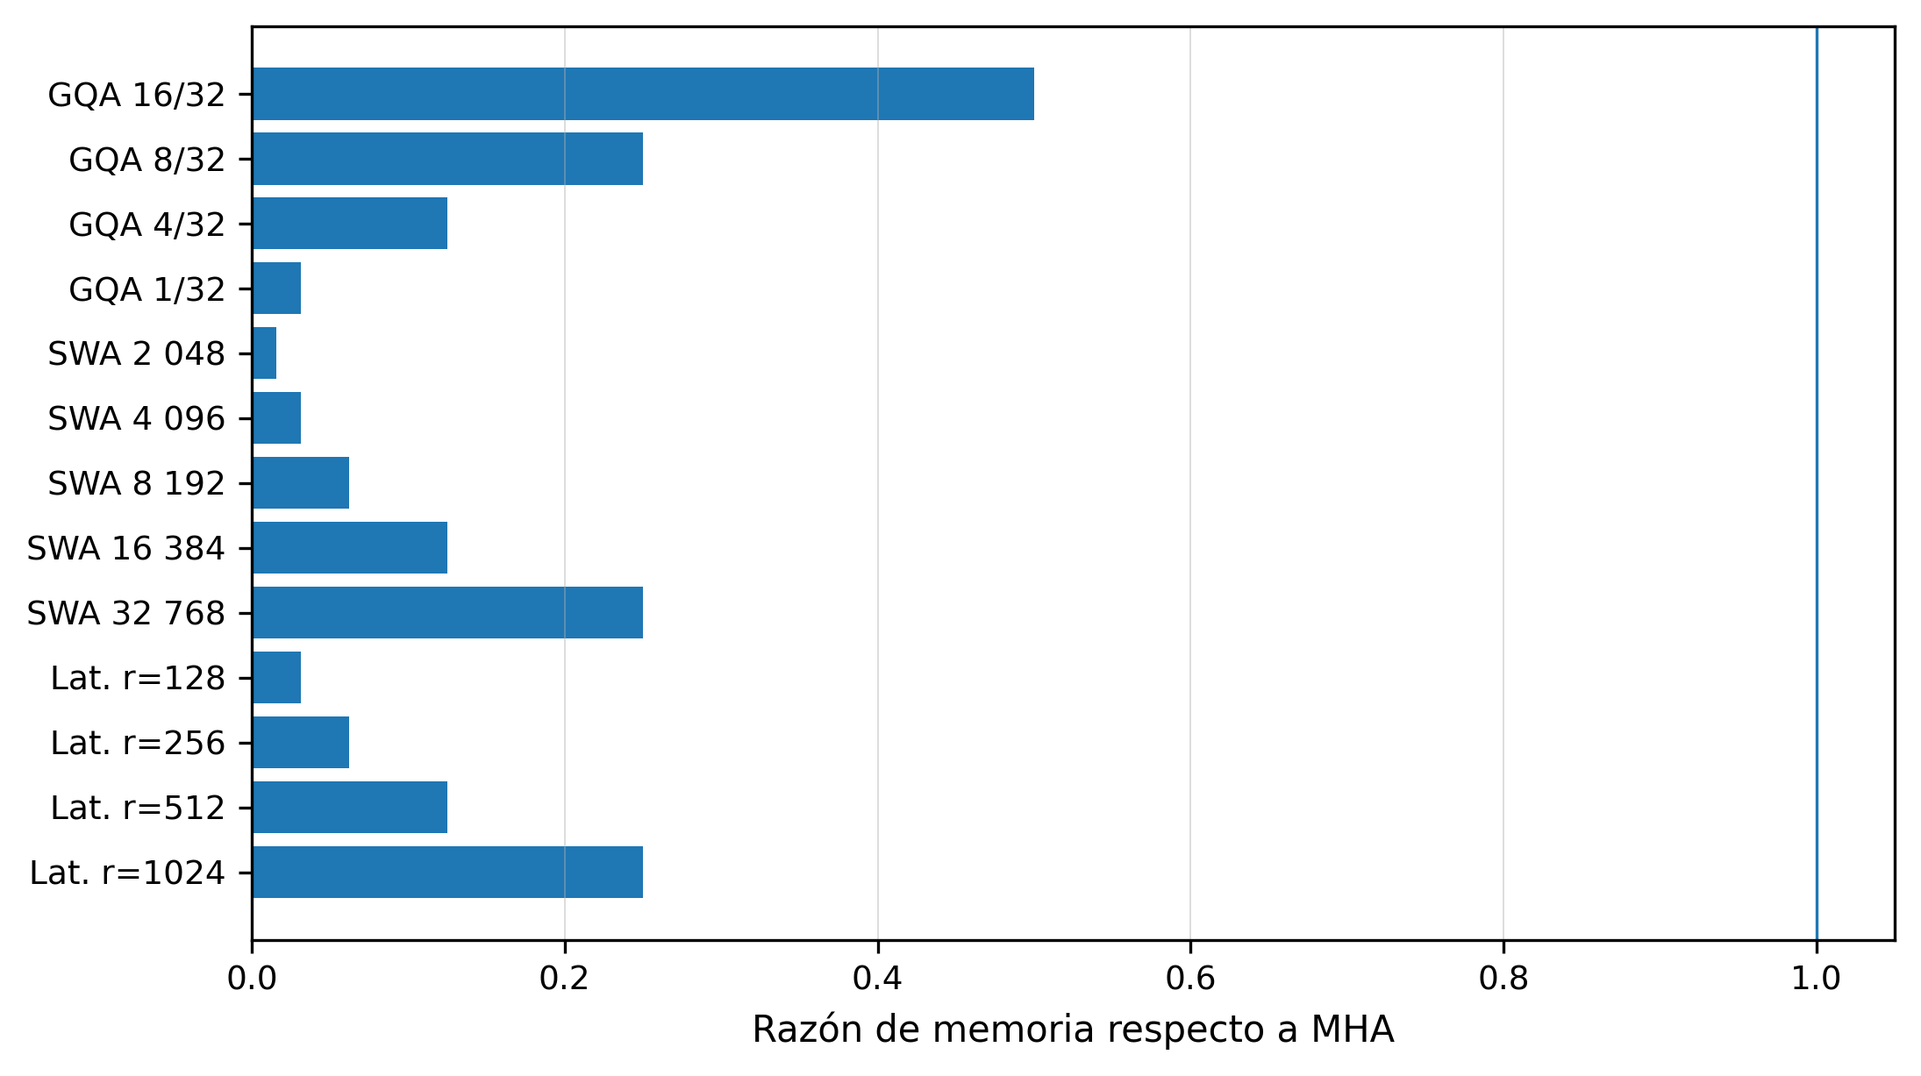
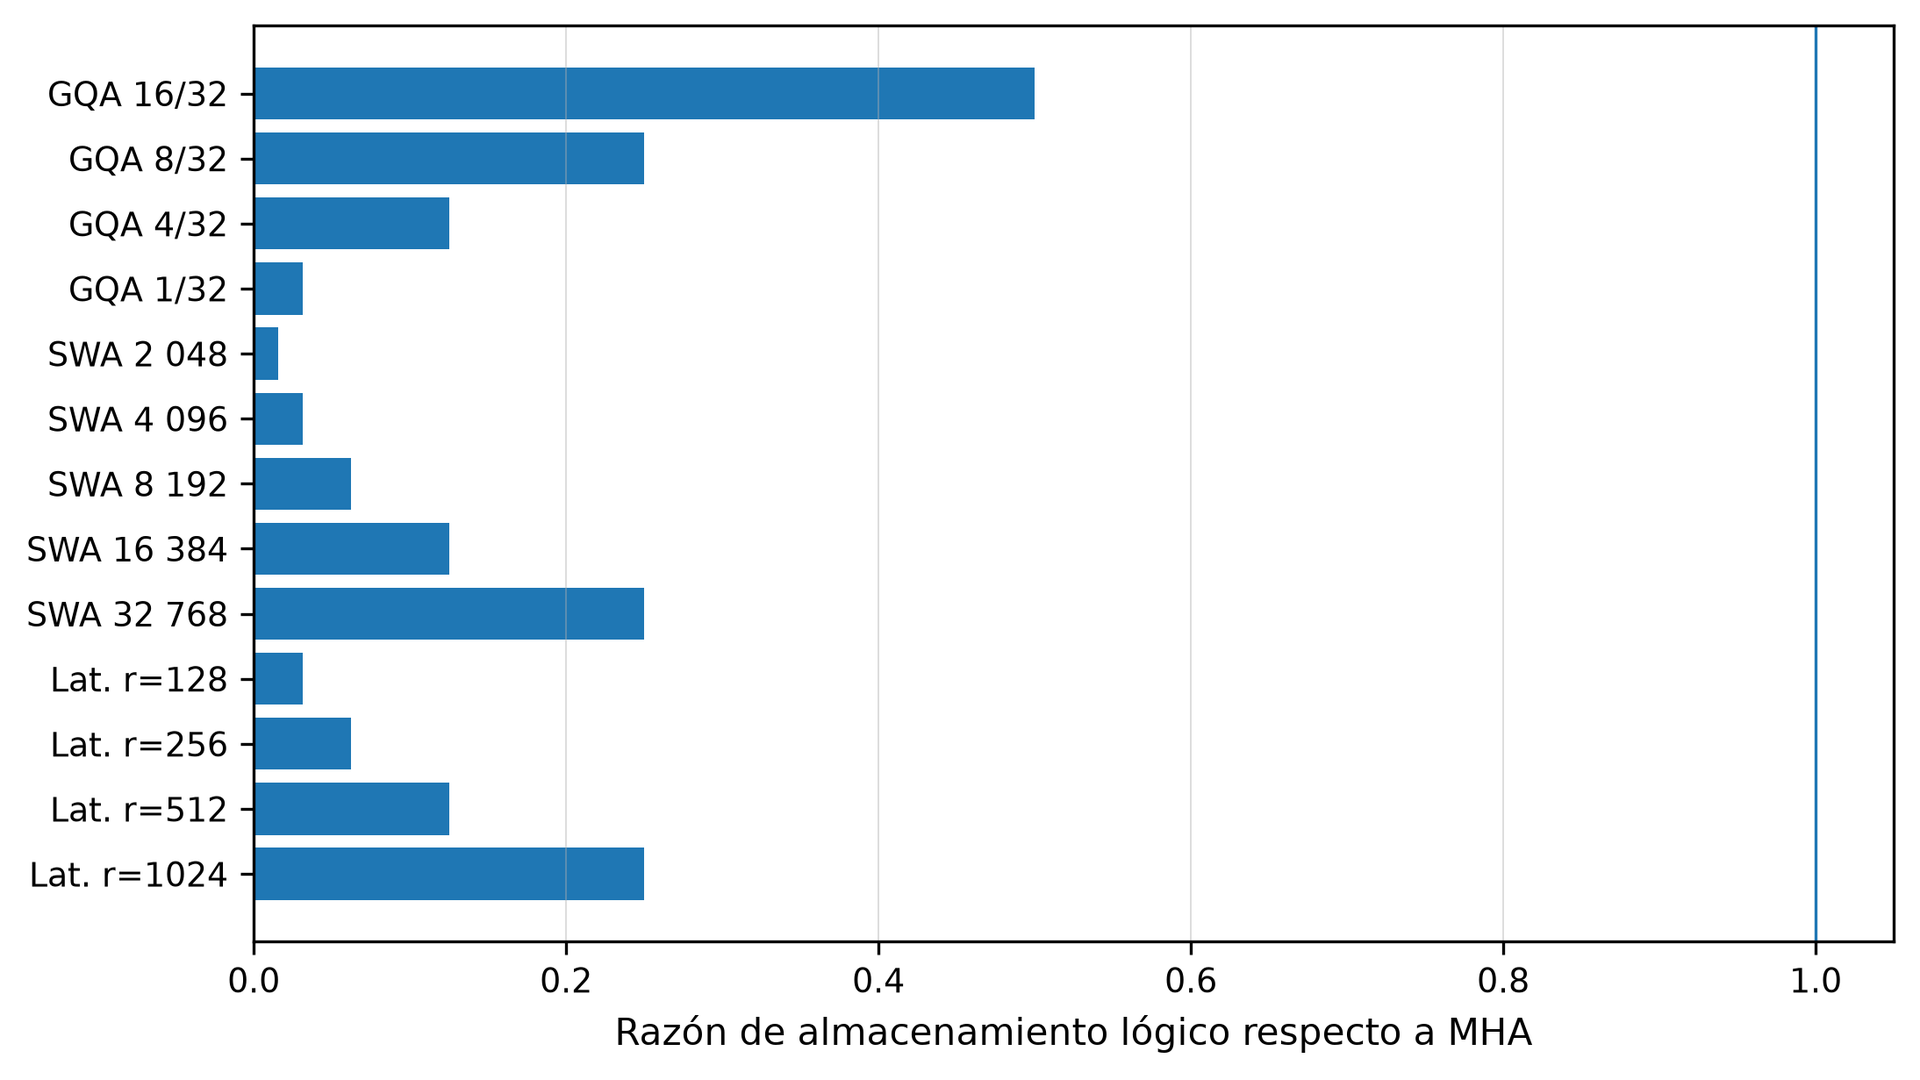
Corrige figuras notación y formato del manuscrito

diff --git a/paper/lara_avila.tex b/paper/lara_avila.tex
@@ -49,9 +49,9 @@ Las técnicas recientes de reducción de KV cache actúan sobre diferentes ejes.
 
 La compresión también puede actuar sobre el eje temporal o la precisión. H2O retiene tokens de alta importancia (heavy hitters) y tokens recientes, StreamingLLM mantiene attention sinks junto con una ventana reciente y DuoAttention mantiene la cache completa solo en retrieval heads \cite{zhang2023h2o,xiao2024streamingllm,xiao2025duoattention}. En cuantización, KIVI muestra que claves y valores presentan propiedades diferentes, mientras SKVQ combina almacenamiento con pocos bits con una ventana de mayor precisión \cite{liu2024kivi,duanmu2024skvq}. Por ello, reducir $T_{\mathrm{eff}}$ o los bytes por valor es útil para contabilidad lógica, pero no describe por sí solo pérdida de calidad, metadatos ni sobrecarga de kernels.
 
-En sistemas de inferencia, el almacenamiento lógico tampoco determina la memoria físicamente utilizable. PagedAttention reduce desperdicio mediante paginación y compartición de bloques, vAttention separa espacio virtual contiguo de respaldo físico y KV-Compress muestra que una tasa teórica de compresión puede no materializarse de forma proporcional cuando la disposición de memoria introduce fragmentación \cite{kwon2023efficient,prabhu2025vattention,rehg2024kvcompress}. Evaluaciones de sistemas de inferencia como Rethinking KV Compression encuentran además que reducir memoria no garantiza una mejora equivalente de throughput o latencia \cite{gao2025rethinking}. Estudios recientes de calidad muestran que determinadas instrucciones pueden degradarse de forma desigual bajo compresión \cite{chen2026pitfalls}.
+En sistemas de inferencia, el almacenamiento lógico tampoco determina la memoria físicamente utilizable. FlashAttention aborda la eficiencia de E/S del cálculo de atención mediante tiling y reducción de transferencias entre HBM y SRAM \cite{dao2022flashattention}. Este nivel de optimización de ejecución es distinto del almacenamiento lógico de los estados KV modelado en este trabajo. PagedAttention reduce desperdicio mediante paginación y compartición de bloques, vAttention separa espacio virtual contiguo de respaldo físico y KV-Compress muestra que una tasa teórica de compresión puede no materializarse de forma proporcional cuando la disposición de memoria introduce fragmentación \cite{kwon2023efficient,prabhu2025vattention,rehg2024kvcompress}. Evaluaciones de sistemas de inferencia como Rethinking KV Compression encuentran además que reducir memoria no garantiza una mejora equivalente de throughput o latencia \cite{gao2025rethinking}. Estudios recientes de calidad muestran que determinadas instrucciones pueden degradarse de forma desigual bajo compresión \cite{chen2026pitfalls}.
 
-Finalmente, LIFE modela analíticamente el rendimiento de inferencia a partir de operadores y especificaciones de hardware, mientras KV Pareto estudia empíricamente fronteras entre memoria total y exactitud para combinaciones de optimizaciones \cite{patwari2025life,gokhale2026kvpareto}. Otros trabajos distribuyen budgets de retención entre capas, y una taxonomía reciente organiza la gestión de KV cache en niveles de token, modelo y sistema \cite{li2024xkv,li2024kvsurvey}. El presente trabajo persigue un objetivo más acotado: proporcionar una capa de dimensionamiento lógico de capacidad para configuraciones seleccionadas, con una representación común, cálculo directo e inverso y trazabilidad reproducible entre ecuaciones, implementación, datos regenerables y pruebas. Este nivel de análisis complementa, en lugar de sustituir, modelos de rendimiento, técnicas de compresión y sistemas de gestión física de memoria.
+Finalmente, LIFE modela analíticamente el rendimiento de inferencia a partir de operadores y especificaciones de hardware, mientras KV Pareto estudia empíricamente fronteras entre memoria total y exactitud para combinaciones de optimizaciones \cite{patwari2025life,gokhale2026kvpareto}. Otros trabajos distribuyen presupuestos de retención entre capas, y una taxonomía reciente organiza la gestión de KV cache en niveles de token, modelo y sistema \cite{li2024xkv,li2024kvsurvey}. El presente trabajo persigue un objetivo más acotado: proporcionar una capa de dimensionamiento lógico de capacidad para configuraciones seleccionadas, con una representación común, cálculo directo e inverso y trazabilidad reproducible entre ecuaciones, implementación, datos regenerables y pruebas. Este nivel de análisis complementa, en lugar de sustituir, modelos de rendimiento, técnicas de compresión y sistemas de gestión física de memoria.
 
 \subsection{Objetivo y contribuciones}
 La literatura reciente integra mecanismos de reducción y gestión de KV cache desde perspectivas arquitectónicas, algorítmicas y de sistemas. Sin embargo, para una etapa preliminar de planificación de capacidad sigue siendo útil una representación compacta que permita responder de forma reproducible cuánto almacenamiento lógico requiere una configuración, qué factores explican una reducción, qué mecanismos pueden componerse bajo supuestos explícitos y qué contexto satisface un presupuesto reservado a KV cache. El objetivo de este trabajo es proporcionar esa capa de dimensionamiento y vincularla con un artefacto ejecutable y auditable, sin interpretar las estimaciones lógicas como mediciones de GPU.
@@ -80,7 +80,7 @@ R_{\mathrm{GQA}}=\frac{h_{kv}}{h_q}.
 \end{equation}
 La Ecuación~\eqref{eq:gqa} expresa la reducción proporcional producida al compartir claves y valores entre grupos de query heads.
 
-En SWA, el contexto activo se limita a una ventana $W$:
+En SWA, el contexto activo se limita a una ventana $W$ \cite{jiang2023mistral}:
 \begin{equation}\label{eq:swa}
 M_{\mathrm{SWA}}=\frac{L\,\min(T,W)\,2\,d\,s\,B}{10^{9}},\qquad
 R_{\mathrm{SWA}}=\frac{\min(T,W)}{T}.
@@ -132,18 +132,19 @@ El servicio principal calcula MHA, GQA y el proxy de cache latente. Por compatib
 La aplicación puede ejecutarse sin GPU, sin API keys y sin servicios externos obligatorios. Un Docker multi-stage compila el frontend y sirve API, interfaz y documentación OpenAPI en el puerto 7860. Una demostración interactiva está disponible en \url{https://kapumota-attentio-ai-lab.hf.space/}. El Space constituye un entorno demostrativo en evolución y puede recibir actualizaciones posteriores; por ello, permite inspeccionar la interfaz y el contrato, pero no sustituye la referencia inmutable del artefacto científico que se fijará al cerrar la revisión. El paquete del artículo conserva CSV, figuras y script independientes.
 
 \subsection{Trazabilidad del artefacto}
-La Tabla~\ref{tab:traceability} vincula los claims computacionales principales con su implementación canónica, la evidencia reproducible y las pruebas correspondientes. El tag \texttt{v1.2.0} se conserva como versión base, mientras que la referencia inmutable del artefacto científico revisado se fijará al cerrar la revisión final.
+La Tabla~\ref{tab:traceability} vincula las afirmaciones computacionales principales con su implementación canónica, la evidencia reproducible y las pruebas correspondientes. El tag \texttt{v1.2.0} se conserva como versión base, mientras que la referencia inmutable del artefacto científico revisado se fijará al cerrar la revisión final.
 
-\begin{table*}[!ht]
+\begin{table*}[!t]
 \centering\scriptsize
-\caption{Trazabilidad entre claims, implementación canónica y evidencia reproducible. Fuente: elaboración propia.}\label{tab:traceability}
+\setlength{\tabcolsep}{3pt}
+\caption{Trazabilidad entre afirmaciones, implementación canónica y evidencia reproducible. Fuente: elaboración propia.}\label{tab:traceability}
 \begin{tabular}{
 >{\raggedright\arraybackslash}p{0.18\textwidth}
 >{\raggedright\arraybackslash}p{0.28\textwidth}
 >{\raggedright\arraybackslash}p{0.27\textwidth}
 >{\raggedright\arraybackslash}p{0.18\textwidth}}
 \toprule
-Claim & Implementación canónica & Evidencia reproducible & Verificación \\
+Afirmación & Implementación canónica & Evidencia reproducible & Verificación \\
 \midrule
 MHA, GQA y proxy latente &
 \path{apps/api/app/services/llm_metrics.py} &
@@ -160,7 +161,7 @@ Composición GQA+SWA &
 razón algebraica combinada &
 \path{apps/api/tests/test_composition_invariant.py} \\
 
-Inverse sizing &
+Dimensionamiento inverso &
 \path{apps/api/app/services/budget_inversion.py} &
 contexto máximo bajo presupuesto lógico &
 \path{apps/api/tests/test_budget_inversion.py} \\
@@ -189,7 +190,7 @@ Almacenamiento de tensores en CPU &
 \end{tabular}
 \end{table*}
 
-Para el barrido de 71 configuraciones, la cadena canónica parte de los servicios del backend y de \path{scripts/generate-paper-kv-results.py}, que produce los tres CSV deterministas y su manifest. Los artefactos y scripts mantenidos dentro de \path{paper/} se conservan para la preparación editorial de tablas y figuras, pero no se consideran la implementación canónica de las ecuaciones ni la fuente primaria de los 71 resultados reproducibles.
+Para el barrido de 71 configuraciones, la cadena canónica parte de los servicios del backend y de \path{scripts/generate-paper-kv-results.py}, que produce los tres CSV deterministas y el archivo \texttt{manifest.json}. Los artefactos y scripts mantenidos dentro de \path{paper/} se conservan para la preparación editorial de tablas y figuras, pero no se consideran la implementación canónica de las ecuaciones ni la fuente primaria de los 71 resultados reproducibles.
 
 \subsection{Protocolo reproducible}
 El protocolo consta de cinco pasos: (1) fijar supuestos y escenarios; (2) ejecutar el estimador determinista; (3) exportar CSV y figuras; (4) comprobar invariantes; y (5) ejecutar la comprobación empírica del almacenamiento de tensores en CPU. El control de calidad exige pruebas del backend, compilación y verificación de TypeScript, revisión documental y validación opcional del despliegue público. Esto no valida fidelidad física, pero reduce errores de transcripción, cambios silenciosos de fórmula y discrepancias entre documentación y código.
@@ -222,23 +223,23 @@ La Figura~\ref{fig:context} muestra el barrido de $4\,096$ a $1\,048\,576$ token
 
 \begin{figure*}[!ht]
 \centering
-\includegraphics[width=0.88\linewidth]{figures/context_sweep.png}
-\caption{Memoria estimada de KV cache al variar la longitud de contexto. Supuestos: 32 capas, dimensión $4\,096$, FP16, lote 1, GQA con 8 de 32 KV heads, SWA con ventana $4\,096$ y cache latente de rango 512. Fuente: elaboración propia.}\label{fig:context}
+\includegraphics[width=0.84\linewidth]{figures/context_sweep.png}
+\caption{Almacenamiento lógico estimado de KV cache al variar la longitud de contexto. Supuestos: 32 capas, dimensión $4\,096$, FP16, lote 1, GQA con 8 de 32 KV heads, SWA con ventana $4\,096$ y cache latente de rango 512. Fuente: elaboración propia.}\label{fig:context}
 \end{figure*}
 
 La Tabla~\ref{tab:scenarios} separa las cuatro familias para evitar interpretar SWA y cache latente como una misma salida. En $1\,048\,576$ tokens, MHA requiere 549.756 GB. GQA-8 reduce 75\%, la cache latente de rango 512 reduce 87.5\% y SWA-$8\,192$ reduce 99.219\% respecto al MHA de referencia. Esta última reducción se obtiene al renunciar a atención directa sobre tokens fuera de la ventana local.
 
 \begin{table*}[!ht]
 \centering\small
-\caption{Escenarios representativos de memoria lógica estimada. Valores en GB decimales. Fuente: elaboración propia.}\label{tab:scenarios}
+\caption{Escenarios representativos de almacenamiento lógico estimado. Valores en GB decimales. Fuente: elaboración propia.}\label{tab:scenarios}
 \begin{tabular}{lrrrrr}
 \toprule
 Escenario & Contexto & MHA & GQA & SWA & Latente \\
 \midrule
-MHA $32\,768$, 32 KV heads & 32 768 & 17.180 & 17.180 & 2.147 & 2.147 \\
-GQA $65\,536$, 8 de 32 KV heads & 65 536 & 34.360 & 8.590 & 2.147 & 4.295 \\
-SWA $131\,072$, ventana $4\,096$ & 131 072 & 68.719 & 17.180 & 2.147 & 8.590 \\
-Contexto $1\,048\,576$, ventana $8\,192$, rango 512 & 1 048 576 & 549.756 & 137.439 & 4.295 & 68.719 \\
+MHA $32\,768$, 32 KV heads & $32\,768$ & 17.180 & 17.180 & 2.147 & 2.147 \\
+GQA $65\,536$, 8 de 32 KV heads & $65\,536$ & 34.360 & 8.590 & 2.147 & 4.295 \\
+SWA $131\,072$, ventana $4\,096$ & $131\,072$ & 68.719 & 17.180 & 2.147 & 8.590 \\
+Contexto $1\,048\,576$, ventana $8\,192$, rango 512 & $1\,048\,576$ & 549.756 & 137.439 & 4.295 & 68.719 \\
 \bottomrule
 \end{tabular}
 \end{table*}
@@ -248,13 +249,13 @@ La Figura~\ref{fig:ratios} confirma que GQA depende de $h_{kv}/h_q$. Con 16, 8, 
 
 \begin{figure*}[!ht]
 \centering
-\includegraphics[width=0.88\linewidth]{figures/ratios_128k.png}
-\caption{Razón de memoria respecto a MHA para configuraciones a $131\,072$ tokens. ``Lat.'' corresponde a cache latente. Fuente: elaboración propia.}\label{fig:ratios}
+\includegraphics[width=0.84\linewidth]{figures/ratios_128k.png}
+\caption{Razón de almacenamiento lógico respecto a MHA para configuraciones a $131\,072$ tokens. ``Lat.'' corresponde a cache latente. Fuente: elaboración propia.}\label{fig:ratios}
 \end{figure*}
 
 SWA-$4\,096$ también produce $R=0.03125$ a $131\,072$, igual que GQA con un KV head. La igualdad de memoria no implica equivalencia funcional: GQA conserva todo el contexto mediante compartición entre query heads, mientras SWA limita el historial activo. La cache latente produce razones 0.03125, 0.0625, 0.125 y 0.25 para rangos 128, 256, 512 y 1024.
 
-La composición de la Ecuación~\eqref{eq:compose} ofrece un escenario de planeamiento adicional. A $1\,048\,576$ tokens, GQA-8 con SWA-$8\,192$ reduce la cache lógica FP16 de 549.756 GB a 1.074 GB. Si además se representa cada valor con 1 byte, el valor ideal es 0.537 GB. Estas cifras no describen una implementación ni su calidad; muestran cómo factores compatibles dentro del modelo lógico, bajo los supuestos declarados, pueden detectar órdenes de magnitud antes del despliegue.
+La composición de la Ecuación~\eqref{eq:compose} ofrece un escenario de planificación adicional. A $1\,048\,576$ tokens, GQA-8 con SWA-$8\,192$ reduce la cache lógica FP16 de 549.756 GB a 1.074 GB. Si además se representa cada valor con 1 byte, el valor ideal es 0.537 GB. Estas cifras no describen una implementación ni su calidad; muestran cómo factores compatibles dentro del modelo lógico, bajo los supuestos declarados, pueden detectar órdenes de magnitud antes del despliegue.
 
 \subsection{Efecto de la precisión}
 La Figura~\ref{fig:precision} muestra escalamiento lineal con bytes por valor. Para MHA a $131\,072$ tokens, FP32 requiere 137.439 GB; FP16 y BF16, 68.719 GB; INT8, 34.360 GB; e INT4, 17.180 GB.
@@ -262,7 +263,7 @@ La Figura~\ref{fig:precision} muestra escalamiento lineal con bytes por valor. P
 \begin{figure*}[!ht]
 \centering
 \includegraphics[width=0.88\linewidth]{figures/precision_128k.png}
-\caption{Sensibilidad a la precisión para $131\,072$ tokens. INT8 e INT4 representan almacenamiento ideal y omiten metadatos, escalas, regiones residuales y precisión mixta de implementaciones reales. Fuente: elaboración propia.}\label{fig:precision}
+\caption{Sensibilidad del almacenamiento lógico a la precisión para $131\,072$ tokens. INT8 e INT4 representan almacenamiento ideal y omiten metadatos, escalas, regiones residuales y precisión mixta de implementaciones reales. Fuente: elaboración propia.}\label{fig:precision}
 \end{figure*}
 
 La cuantización puede multiplicar reducciones de GQA o SWA, pero su efecto práctico depende de granularidad, escalas, valores atípicos y kernels. KIVI muestra que claves y valores pueden requerir tratamientos distintos, por lo que reducir bytes no basta para caracterizar calidad ni rendimiento \cite{liu2024kivi}.
@@ -284,8 +285,8 @@ Presupuesto KV & MHA & GQA-8 & Latente $r=512$ \\
 \end{tabular}
 \end{table}
 
-\subsection{Validación por invariantes}
-La Tabla~\ref{tab:invariants} resume las pruebas. El error absoluto es cero dentro de la aritmética del script. Estas pruebas validan coherencia entre ecuaciones y código, no correspondencia con hardware.
+\subsection{Verificación por invariantes}
+La Tabla~\ref{tab:invariants} resume las pruebas. El error absoluto es cero dentro de la aritmética del script. Estas pruebas verifican la coherencia entre ecuaciones y código, no correspondencia con hardware.
 
 \begin{table}[!ht]
 \centering\small
@@ -295,9 +296,9 @@ La Tabla~\ref{tab:invariants} resume las pruebas. El error absoluto es cero dent
 Invariante & Esperado & Observado \\
 \midrule
 $M_{\mathrm{MHA}}(2T)/M_{\mathrm{MHA}}(T)$ & 2.000 & 2.000 \\
-GQA $8/32$ heads & 0.250 & 0.250 \\
+GQA $8/32$ KV heads & 0.250 & 0.250 \\
 SWA $4\,096/131\,072$ & 0.03125 & 0.03125 \\
-Latente $512/4096$ & 0.125 & 0.125 \\
+Latente $512/4\,096$ & 0.125 & 0.125 \\
 INT8 / FP16 & 0.500 & 0.500 \\
 \bottomrule
 \end{tabular}
@@ -311,7 +312,7 @@ La Tabla~\ref{tab:pytorch-profile} muestra que los bytes de \texttt{untyped\_sto
 \caption{Comprobación empírica del almacenamiento de tensores con PyTorch 2.10.0 en CPU; tres ejecuciones por escenario. Valores en MB decimales. Fuente: elaboración propia.}\label{tab:pytorch-profile}
 \begin{tabular}{lrrrr}
 \toprule
-Escenario & Analítico & Almacenamiento & RSS mediana & Error RSS \\
+Escenario & Analítico & Almacenamiento & RSS mediana & Dif. RSS \\
 \midrule
 MHA & 134.218 & 134.218 & 134.222 & 0.003\% \\
 GQA-4/16 & 33.554 & 33.554 & 33.559 & 0.012\% \\

diff --git a/paper/generate_results.py b/paper/generate_results.py
@@ -19,6 +19,13 @@ HQ = 32
 B = 1
 BYTES = {"fp32": 4.0, "fp16": 2.0, "bf16": 2.0, "int8": 1.0, "int4": 0.5}
 
+DISPLAY_NAMES = {
+    "MHA": "MHA",
+    "GQA-8 heads KV": "GQA 8/32 KV heads",
+    "SWA-4 096": "SWA 4 096",
+    "Latente r=512": "Latente r=512",
+}
+
 
 def mha(context: int, precision: str = "fp16") -> float:
     return L * context * 2 * D * BYTES[precision] * B / 1e9
@@ -59,12 +66,12 @@ with (DATA / "context_sweep.csv").open("w", newline="", encoding="utf-8") as fil
 plt.figure(figsize=(7.4, 4.2))
 for method in ["MHA", "GQA-8 heads KV", "SWA-4 096", "Latente r=512"]:
     y_values = [row["value_gb"] for row in rows if row["method"] == method]
-    plt.plot([context / 1024 for context in contexts], y_values, marker="o", label=method)
+    plt.plot([context / 1024 for context in contexts], y_values, marker="o", label=DISPLAY_NAMES[method])
 plt.xscale("log", base=2)
 plt.yscale("log", base=2)
 plt.xticks([context / 1024 for context in contexts], ["4 096", "8 192", "16 384", "32 768", "65 536", "131 072", "262 144", "524 288", "1 048 576"], rotation=30, ha="right")
 plt.xlabel("Longitud de contexto (tokens)")
-plt.ylabel("KV cache estimada (GB, escala log2)")
+plt.ylabel("Almacenamiento lógico de KV cache (GB, escala log2)")
 plt.grid(True, which="both", linewidth=0.4, alpha=0.5)
 plt.legend(ncol=2, fontsize=9)
 plt.tight_layout()
@@ -99,7 +106,7 @@ positions = range(len(labels))
 plt.barh(positions, values)
 plt.axvline(1.0, linewidth=0.8)
 plt.yticks(list(positions), labels, fontsize=9)
-plt.xlabel("Razón de memoria respecto a MHA")
+plt.xlabel("Razón de almacenamiento lógico respecto a MHA")
 plt.xlim(0, 1.05)
 plt.gca().invert_yaxis()
 plt.grid(True, axis="x", linewidth=0.4, alpha=0.5)
@@ -129,9 +136,9 @@ width = 0.19
 methods = ["MHA", "GQA-8 heads KV", "SWA-4 096", "Latente r=512"]
 for index, method in enumerate(methods):
     y_values = [row["memory_gb"] for precision in precisions for row in precision_rows if row["precision"] == precision and row["method"] == method]
-    plt.bar([position + (index - 1.5) * width for position in x_values], y_values, width=width, label=method)
+    plt.bar([position + (index - 1.5) * width for position in x_values], y_values, width=width, label=DISPLAY_NAMES[method])
 plt.xticks(list(x_values), [precision.upper() for precision in precisions])
-plt.ylabel("KV cache estimada a 131 072 tokens (GB, escala log2)")
+plt.ylabel("Almacenamiento lógico de KV cache a 131 072 tokens (GB, escala log2)")
 plt.yscale("log", base=2)
 plt.grid(True, axis="y", linewidth=0.4, alpha=0.5)
 plt.legend(ncol=2, fontsize=9)

diff --git a/paper/figures/flujo_trabajo_ia.tex b/paper/figures/flujo_trabajo_ia.tex
@@ -1,11 +1,11 @@
 \begin{tikzpicture}[
-  node distance=6mm and 6mm,
+  node distance=6mm and 4mm,
   scientific/.style={
     draw,
     rounded corners=2pt,
     align=center,
     minimum height=10mm,
-    text width=0.205\textwidth,
+    text width=0.195\textwidth,
     inner sep=3pt,
     font=\small
   },
@@ -15,7 +15,7 @@
     rounded corners=2pt,
     align=center,
     minimum height=10mm,
-    text width=0.275\textwidth,
+    text width=0.250\textwidth,
     inner sep=3pt,
     font=\small
   },
@@ -64,12 +64,12 @@
 
 % Asistencia con IA
 \node[support, below=13mm of manuscript] (ai-literature)
-{Asistencia con IA\\descubrimiento y organización bibliográfica};
+{Asistencia con IA\\búsqueda y organización bibliográfica};
 
-\node[support, right=9mm of ai-literature] (ai-editorial)
+\node[support, right=6mm of ai-literature] (ai-editorial)
 {Asistencia con IA\\revisión lingüística, terminológica y de coherencia};
 
-\node[support, right=9mm of ai-editorial] (author-check)
+\node[support, right=6mm of ai-editorial] (author-check)
 {Verificación, selección\\y decisión final\\\textbf{Autor}};
 
 \draw[supportarrow] (ai-literature.north) -- (literature.south);
